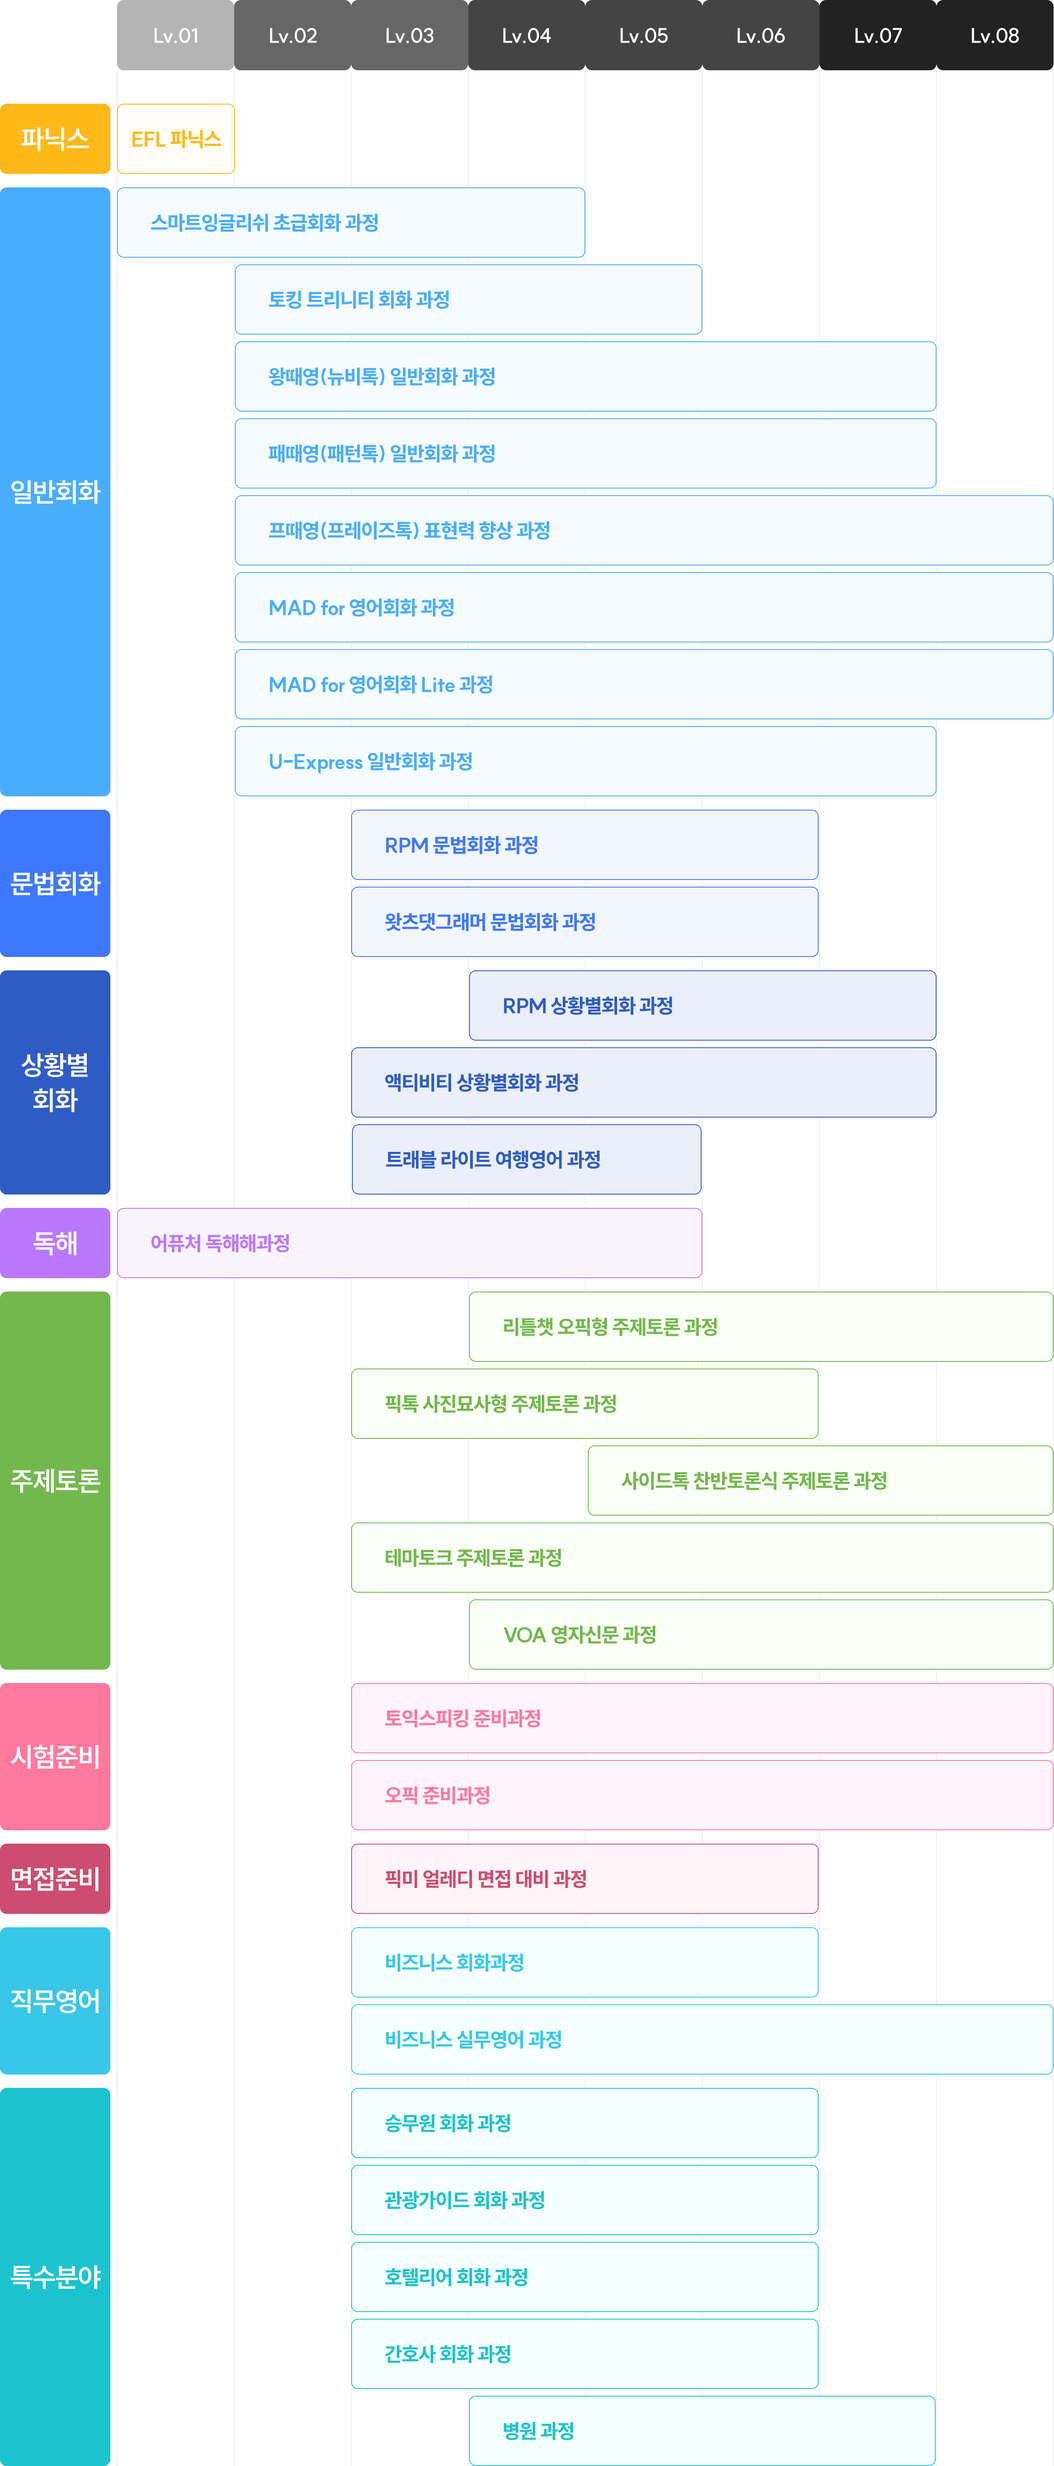
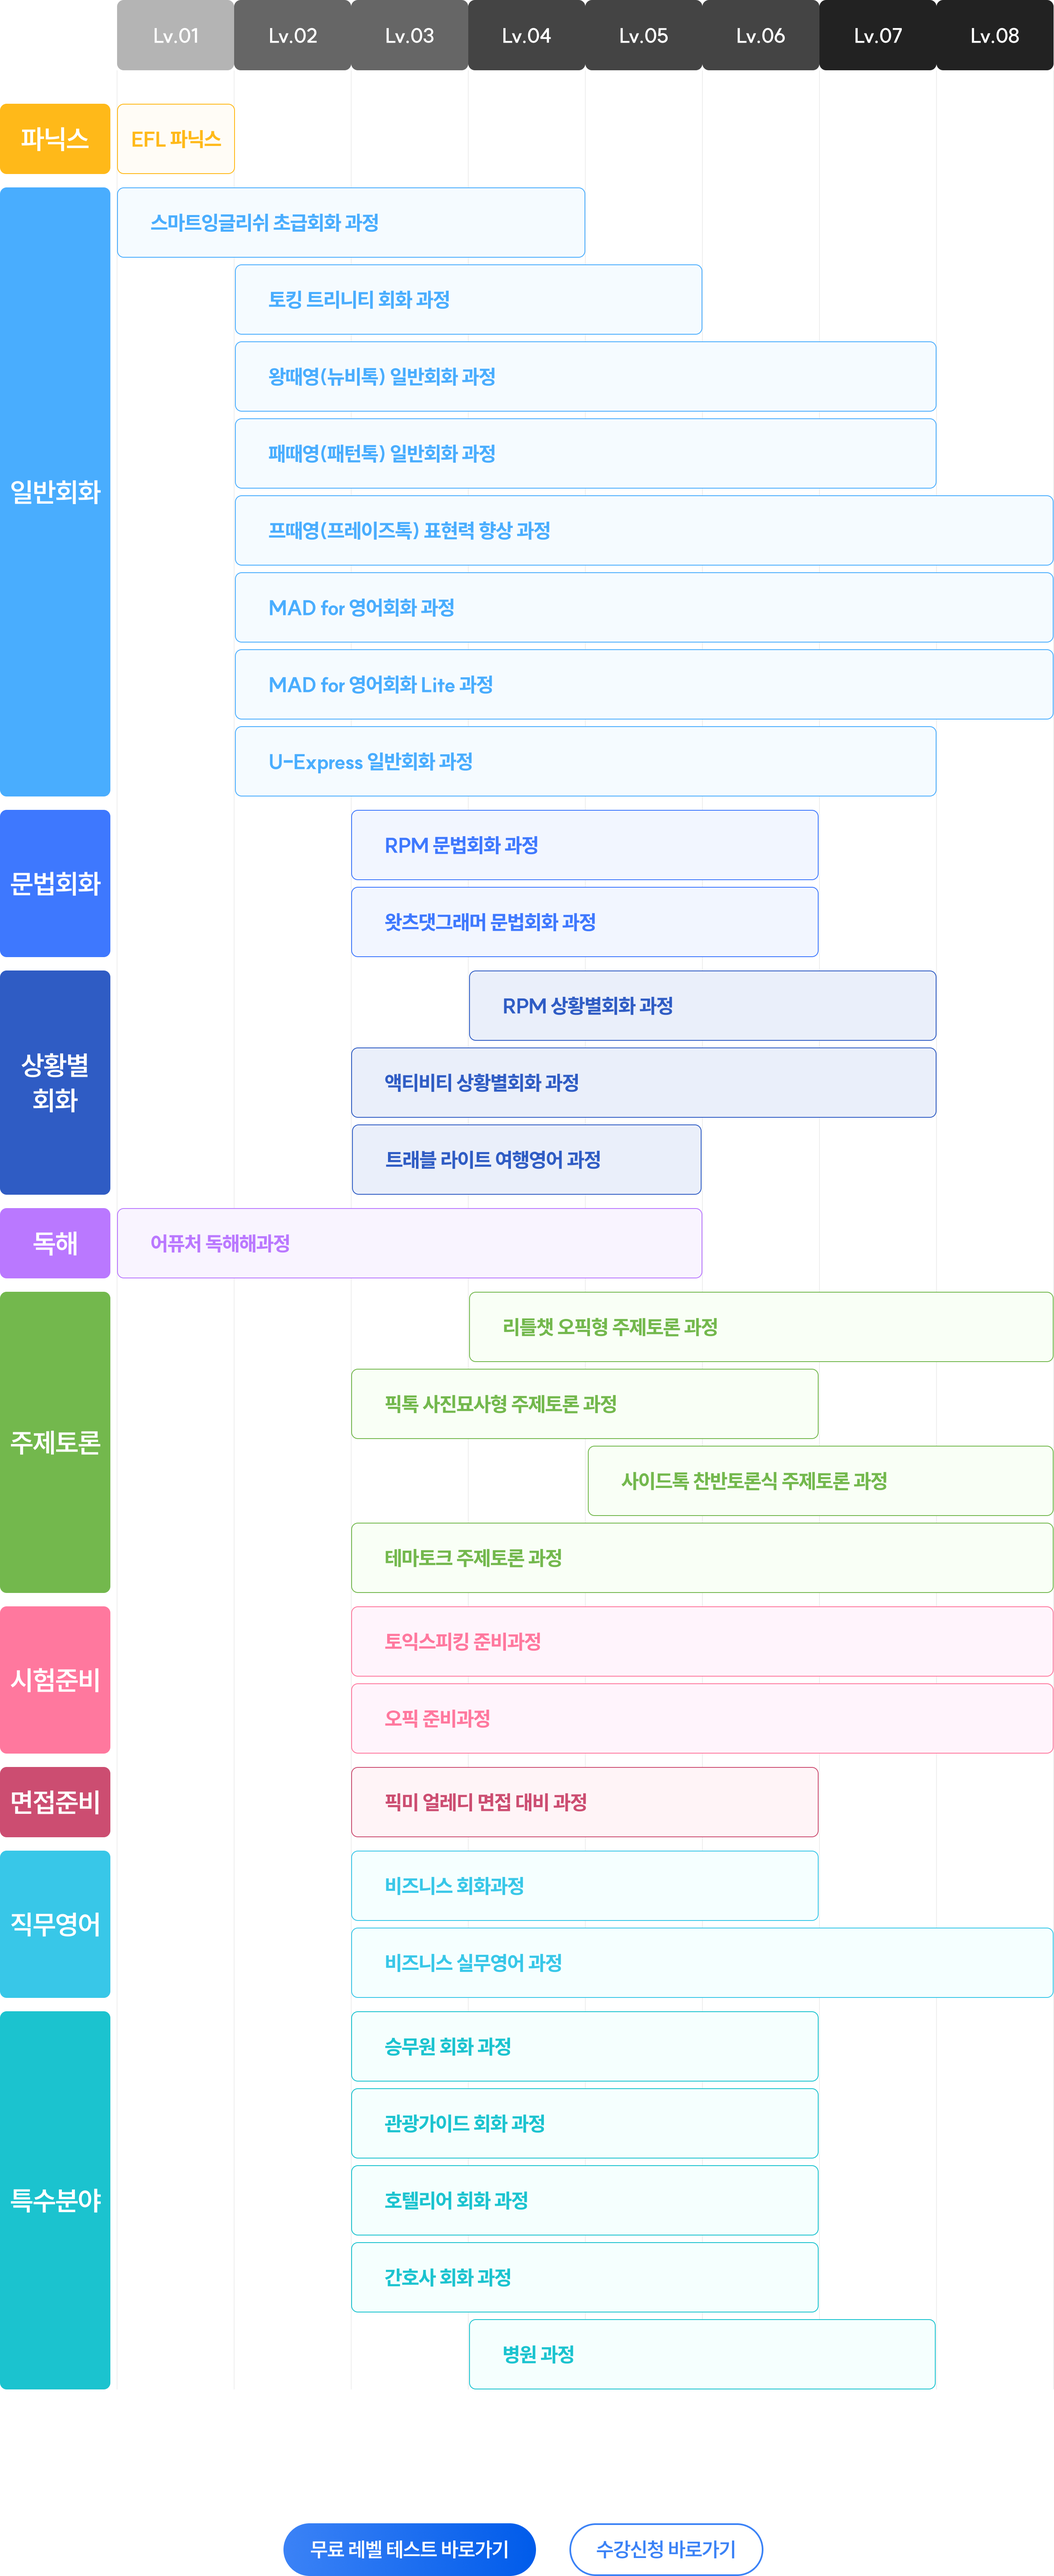
update 1217

diff --git a/css/style.css b/css/style.css
@@ -47,7 +47,7 @@ input {
   max-width: 1280px;
   width: 100%;
   margin: 0 auto;
-  padding: 0 16px;
+  padding: 0 24px;
   box-sizing: border-box;
 }
 
@@ -68,9 +68,6 @@ input {
   }
   .enter {
     display: block;
-  }
-  .inner {
-    padding-inline: 20px;
   }
 }
 @keyframes bookTrack {
@@ -295,6 +292,7 @@ p.p2 {
   display: flex;
   justify-content: space-between;
   align-items: center;
+  padding-inline: 16px;
 }
 .gnb a {
   color: inherit;
@@ -499,6 +497,8 @@ p.p2 {
   left: 0;
   right: 0;
   margin: 0 auto;
+  width: 50%;
+  aspect-ratio: 440/321;
 }
 .hero .animation .msg1 {
   top: 270px;
@@ -1407,9 +1407,9 @@ footer.junior .info {
   width: 100%;
 }
 .section-12 .trackWrap {
-  margin-left: -20px;
-  margin-right: -20px;
-  width: calc(100% + 40px);
+  margin-left: -24px;
+  margin-right: -24px;
+  width: calc(100% + 48px);
   margin-block: 80px 120px;
 }
 .section-12 .trackWrap .track {
@@ -1737,9 +1737,9 @@ footer.junior .info {
     border-bottom: 6px solid #F9F9F9;
   }
   .section-12.bgGrey img {
-    margin-left: -20px;
-    margin-right: -20px;
-    width: calc(100% + 40px);
+    margin-left: -24px;
+    margin-right: -24px;
+    width: calc(100% + 48px);
   }
   .section-12 h1 {
     font-size: 6.667vw;
@@ -1769,9 +1769,9 @@ footer.junior .info {
   }
   .section-12 .bgWhite {
     background-color: #fff;
-    margin-left: -20px;
-    margin-right: -20px;
-    width: calc(100% + 40px);
+    margin-left: -24px;
+    margin-right: -24px;
+    width: calc(100% + 48px);
     padding-block: 40px 32px;
     margin-top: -28%;
     margin-bottom: 32px;
@@ -1976,9 +1976,9 @@ footer.junior .info {
   .section-13 img {
     width: 100%;
     margin: -8px 0 6px;
-    margin-left: -20px;
-    margin-right: -20px;
-    width: calc(100% + 40px);
+    margin-left: -24px;
+    margin-right: -24px;
+    width: calc(100% + 48px);
   }
   .section-13 .subTit {
     font-size: 5vw;
@@ -2023,9 +2023,9 @@ footer.junior .info {
     margin-bottom: 32px;
   }
   .section-14 img {
-    margin-left: -20px;
-    margin-right: -20px;
-    width: calc(100% + 40px);
+    margin-left: -24px;
+    margin-right: -24px;
+    width: calc(100% + 48px);
   }
   .section-14 .btnWrap {
     margin-top: 40px;
@@ -2183,9 +2183,9 @@ footer.junior .info {
   width: 100%;
 }
 .section-16 .trackWrap {
-  margin-left: -20px;
-  margin-right: -20px;
-  width: calc(100% + 40px);
+  margin-left: -24px;
+  margin-right: -24px;
+  width: calc(100% + 48px);
 }
 .section-16 .trackWrap2 {
   margin: 120px 0;
@@ -2631,9 +2631,9 @@ footer.junior .info {
     margin-bottom: 29px;
   }
   .section-05 .slick {
-    margin-left: -20px;
-    margin-right: -20px;
-    width: calc(100% + 40px);
+    margin-left: -24px;
+    margin-right: -24px;
+    width: calc(100% + 48px);
   }
   .section-05 .card {
     padding: 0 20px;
@@ -2776,9 +2776,9 @@ footer.junior .info {
   }
   .section-09 .bookWrap {
     padding: 32px 0;
-    margin-left: -20px;
-    margin-right: -20px;
-    width: calc(100% + 40px);
+    margin-left: -24px;
+    margin-right: -24px;
+    width: calc(100% + 48px);
   }
   .section-09 .bookWrap .book {
     height: 124px;
@@ -2809,9 +2809,9 @@ footer.junior .info {
     position: relative;
     aspect-ratio: 360/250;
     margin-top: 30px;
-    margin-left: -20px;
-    margin-right: -20px;
-    width: calc(100% + 40px);
+    margin-left: -24px;
+    margin-right: -24px;
+    width: calc(100% + 48px);
   }
   .section-11 .reviewWrap img {
     width: 90%;
@@ -3667,9 +3667,9 @@ footer.junior .info {
 }
 @media screen and (max-width: 1024px) {
   .madforJunior .whochoose .inner {
-    margin-left: -20px;
-    margin-right: -20px;
-    width: calc(100% + 40px);
+    margin-left: -24px;
+    margin-right: -24px;
+    width: calc(100% + 48px);
   }
   .madforJunior .whochoose img {
     margin-left: -4%;
@@ -3713,9 +3713,9 @@ footer.junior .info {
     padding: 10% 0;
   }
   .madforJunior .bandContents img {
-    margin-left: -20px;
-    margin-right: -20px;
-    width: calc(100% + 40px);
+    margin-left: -24px;
+    margin-right: -24px;
+    width: calc(100% + 48px);
     margin-left: -10%;
     margin-right: -10%;
     width: 120%;
@@ -3828,7 +3828,7 @@ footer.junior .info {
 .section-25 .tab-panel {
   display: none;
   margin-top: 64px;
-  height: 1350px;
+  height: auto;
   border-radius: 40px;
   background: #F9F9F9;
   padding: 80px 100px;
@@ -3912,9 +3912,9 @@ footer.junior .info {
     display: none;
   }
   .section-25 .tab-list {
-    margin-left: -20px;
-    margin-right: -20px;
-    width: calc(100% + 40px);
+    margin-left: -24px;
+    margin-right: -24px;
+    width: calc(100% + 48px);
     flex-wrap: nowrap;
     justify-content: flex-start;
     gap: 2.5%;
@@ -3944,16 +3944,14 @@ footer.junior .info {
   .section-25 .tab-panel {
     margin-top: 16px;
     height: auto;
-    min-height: 380px;
-    aspect-ratio: 360/380;
     padding: 11% 0;
     border-radius: 0;
-    gap: 2.5%;
+    gap: 2vw;
     box-sizing: border-box;
     align-items: center;
-    margin-left: -20px;
-    margin-right: -20px;
-    width: calc(100% + 40px);
+    margin-left: -24px;
+    margin-right: -24px;
+    width: calc(100% + 48px);
   }
   .section-25 .tab-panel .item {
     width: 70%;

diff --git a/page11.html b/page11.html
@@ -186,7 +186,7 @@
                     <h3>핵심 영역 심층 학습</h3>
                     <p class="p1">발음, 영작, 스토리텔링 등 선택 집중</p>
                 </div>
-                <img src="./img/img_section_19_05.png" srcset="./img/img_section_19_01.png 2x" alt="">
+                <img src="./img/img_section_19_05.png" srcset="./img/img_section_19_05.png 2x" alt="">
             </div>
             <div class="item">
                 <div>
@@ -194,7 +194,7 @@
                     <h3>정확성과 완성도 강화</h3>
                     <p class="p1">작은 부분까지 놓치지 않는 세밀한 학습</p>
                 </div>
-                <img src="./img/img_section_19_06.png" srcset="./img/img_section_19_02.png 2x" alt="">
+                <img src="./img/img_section_19_06.png" srcset="./img/img_section_19_06.png 2x" alt="">
             </div>
             <div class="item">
                 <div>
@@ -202,7 +202,7 @@
                     <h3>단계적 훈련</h3>
                     <p class="p1">기본 > 응용 > 숙련의<span class="enter"></span> 체계적인 학습 설계</p>
                 </div>
-                <img src="./img/img_section_19_07.png" srcset="./img/img_section_19_013png 2x" alt="">
+                <img src="./img/img_section_19_07.png" srcset="./img/img_section_19_07.png 2x" alt="">
             </div>
             <div class="item">
                 <div>
@@ -210,7 +210,7 @@
                     <h3>실력 확장</h3>
                     <p class="p1">정규과정에서 다진 기반에<span class="enter"></span> 더 높은 영어 능력 확보</p>
                 </div>
-                <img src="./img/img_section_19_08.png" srcset="./img/img_section_19_04.png 2x" alt="">
+                <img src="./img/img_section_19_08.png" srcset="./img/img_section_19_08.png 2x" alt="">
             </div>
         </div>
         <div class="btnWrap" style="margin: 0;">

diff --git a/css/style.scss b/css/style.scss
@@ -49,7 +49,10 @@ input {
 	max-width: 1280px;
 	width: 100%;
 	margin: 0 auto;
-	padding: 0 16px;
+	// 1217 update
+	// 모바일 양쪽 패딩 + 8
+	// padding: 0 16px;
+	padding: 0 24px;
 	box-sizing: border-box;
 }
 
@@ -73,16 +76,20 @@ input {
 	}
 	// 1203 update
 	// 모바일 양쪽 패딩 + 2
+	// 1217 update
+	// 모바일 양쪽 패딩 + 4
 	.inner {
-		padding-inline: 20px;
+		// padding-inline: 20px;
 	}
 }
 // 1203 update
 // 모바일 양쪽 패딩 + 2
+// 1217 update
+// 모바일 양쪽 패딩 + 4
 @mixin innerFull {
-	margin-left: -20px;
-	margin-right: -20px;
-	width: calc(100% + 40px);
+	margin-left: -24px;
+	margin-right: -24px;
+	width: calc(100% + 48px);
 }
 
 @keyframes bookTrack {
@@ -328,6 +335,7 @@ p.p2 {
 		display: flex;
 		justify-content: space-between;
 		align-items: center;
+		padding-inline: 16px;
 	}
 	a {
 		color: inherit;
@@ -536,6 +544,8 @@ p.p2 {
 			left: 0;
 			right: 0;
 			margin: 0 auto;
+			width: 50%;
+			aspect-ratio: 440 / 321;
 		}
 		.msg1 {
 			top: 270px;
@@ -3933,7 +3943,8 @@ footer {
 	.tab-panel { 
 		display:none; 
 		margin-top: 64px;
-		height: 1350px;
+		// height: 1350px;
+		height: auto;
 		border-radius: 40px;
 		background: #F9F9F9;
 		padding: 80px 100px;
@@ -4040,11 +4051,12 @@ footer {
 		.tab-panel { 
 			margin-top: 16px;
 			height: auto;
-			min-height: 380px;
-			aspect-ratio: 360 / 380;
+			// min-height: 380px;
+			// aspect-ratio: 360 / 380;
 			padding: 11% 0;
 			border-radius: 0;
-			gap: 2.5%;
+			// gap: 2.5%;
+			gap: 2vw;
 			box-sizing: border-box;
 			align-items: center;
 			@include innerFull();

diff --git a/page1.html b/page1.html
@@ -135,7 +135,7 @@
         <div class="bg animation">
             <!-- <img class="d-pc bg" src="./img/bg_hero_pc.png" alt="herobg"> -->
             <img class="obj msg1" src="./img/img_hero_msg1.svg" alt="obj" data-aos="fade-in" data-aos-duration="500" data-aos-offset="-1000" data-aos-delay="500"  data-aos-easing="ease-in-out">
-            <img class="obj phone" src="./img/img_hero_phone.svg" alt="obj" data-aos="fade-up" data-aos-duration="500" data-aos-offset="-400" data-aos-delay="0"  data-aos-easing="ease-in-out">
+            <img class="obj phone" src="./img/img_hero_phone.png" srcset="./img/img_hero_phone.png 2x" alt="obj" data-aos="fade-up" data-aos-duration="500" data-aos-offset="-400" data-aos-delay="0"  data-aos-easing="ease-in-out">
             <img class="obj msg2" src="./img/img_hero_msg2.svg" alt="obj" data-aos="fade-in" data-aos-duration="500" data-aos-offset="100" data-aos-delay="0"  data-aos-easing="ease-in-out">
             <img class="obj pic1" src="./img/img_hero_pic1.svg" alt="obj" data-aos="zoom-in" data-aos-duration="500" data-aos-offset="300" data-aos-delay="200"  data-aos-easing="ease-in-out">
             <img class="obj pic2" src="./img/img_hero_pic2.svg" alt="obj" data-aos="zoom-in" data-aos-duration="500" data-aos-offset="0" data-aos-delay="500"  data-aos-easing="ease-in-out">

diff --git a/page9.html b/page9.html
@@ -335,10 +335,10 @@
                         <div class="lv-blue">Lv.03 - 08</div>
                         <div class="name">테마토크 주제토론 과정</div>
                     </div>
-                    <div class="item">
+                    <!-- <div class="item">
                         <div class="lv-blue">Lv.04 - 08</div>
                         <div class="name">VOA 영자신문 과정</div>
-                    </div>
+                    </div> -->
                 </section>
 
                 <section id="panel7" class="tab-panel" role="tabpanel" tabindex="0">

diff --git a/page10.html b/page10.html
@@ -193,7 +193,7 @@
                     <h3>실용 중심 회화</h3>
                     <p class="p1">회화, 말하기 등<span class="enter"></span> 바로 활용 가능한 표현 학습</p>
                 </div>
-                <img src="./img/img_section_19_03.png" srcset="./img/img_section_19_013png 2x" alt="">
+                <img src="./img/img_section_19_03.png" srcset="./img/img_section_19_03.png 2x" alt="">
             </div>
             <div class="item">
                 <div>
